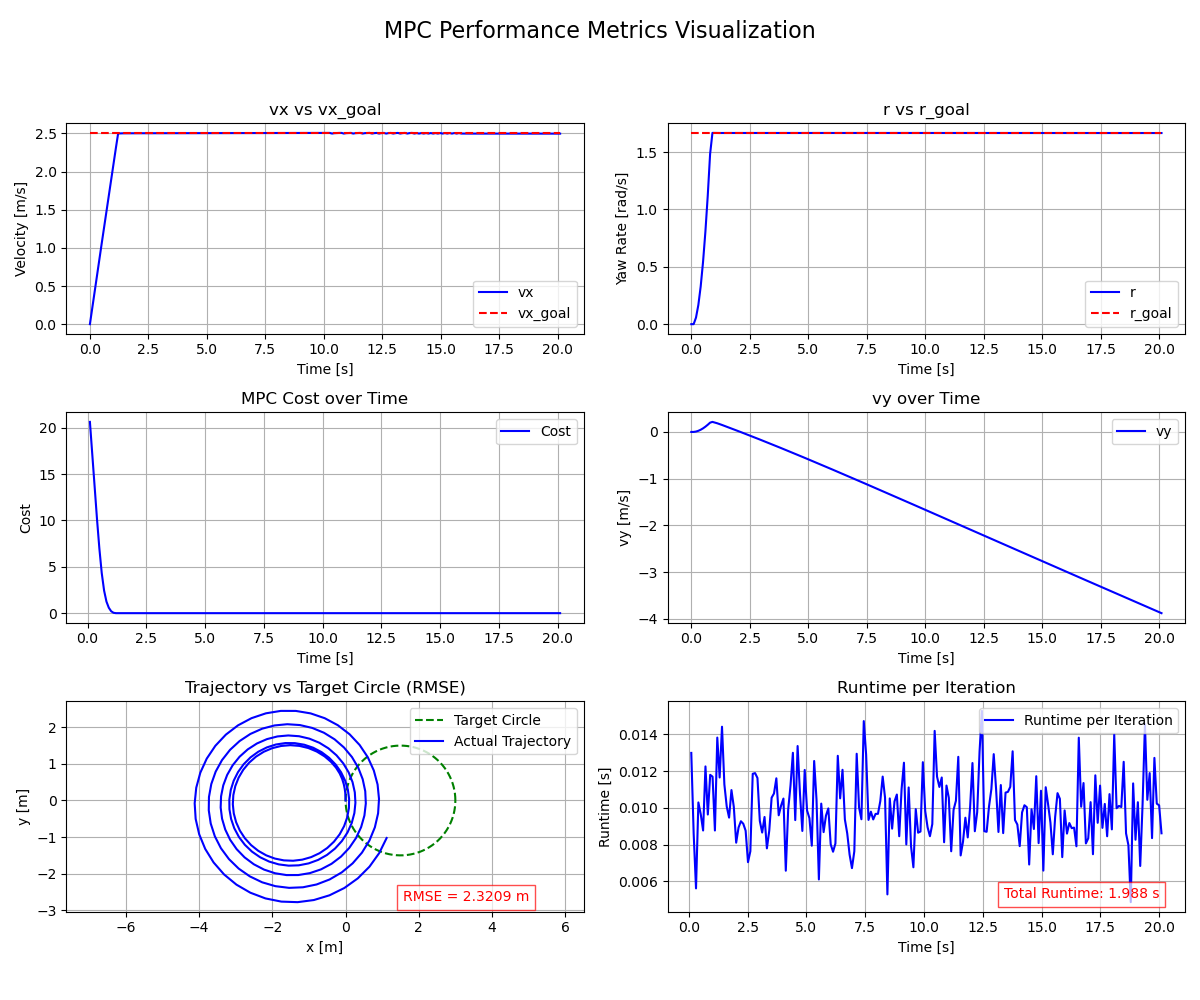
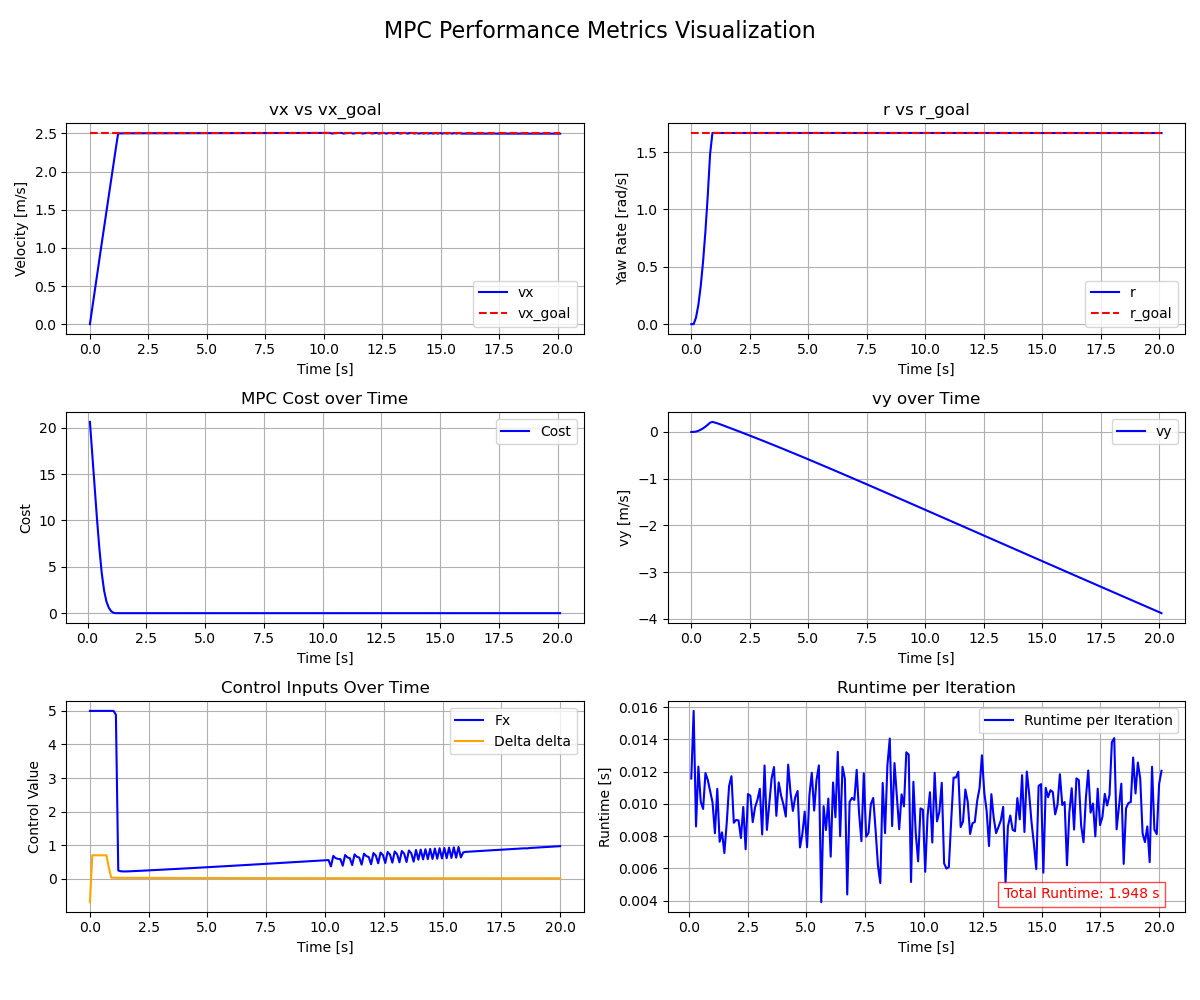
Add control input in subplot

Changed region(s): [[0.0308, 0.682, 0.4933, 0.961], [0.5242, 0.682, 0.9867, 0.899], [0.0, 0.775, 0.0617, 0.837]]

diff --git a/nmpc_controller/scripts/loco_nmpc_offline.py b/nmpc_controller/scripts/loco_nmpc_offline.py
@@ -2,6 +2,8 @@ import numpy as np
 import matplotlib.pyplot as plt
 from scipy.optimize import minimize
 import matplotlib.animation as animation
+from sklearn.metrics import mean_squared_error
+import time 
 
 # Vehicle parameters 
 m = 2.35
@@ -293,7 +295,19 @@ for i in range(0, len(trajectory), 10):  # Plot every 10th step to avoid clutter
     # Plot the yaw direction as arrows
     plt.arrow(x, y, yaw_dx, yaw_dy, head_width=0.2, head_length=0.3, fc='r', ec='r', label='Yaw' if i == 0 else "")
 
-    
+# Compute RMSE for xy trajectory vs target circle
+rmse_xy = np.sqrt(mean_squared_error(targets[:, 0:2], trajectory[:len(targets), 0:2]))
+
+# Add RMSE text on the plot (in axes coordinates)
+plt.text(
+    0.80, 0.05,  # x, y in axes fraction (0 to 1)
+    f'RMSE = {rmse_xy:.4f} m',
+    transform=plt.gca().transAxes,  # Use current Axes for coordinate transform
+    color='red',
+    fontsize=10,
+    bbox=dict(facecolor='white', alpha=0.7, edgecolor='red')
+)
+
 plt.xlabel('X position')
 plt.ylabel('Y position')
 plt.legend()
@@ -372,7 +386,7 @@ def update(frame):
     vx_text.set_text(f'vx: {vx:.2f} m/s')
     vy_text.set_text(f'vy: {vy:.2f} m/s')
     r_text.set_text(f'r: {r:.2f} rad/s')
-    vx_cmd_text.set_text(f'Fx cmd: {current_control[0]:.2f} m/s')
+    vx_cmd_text.set_text(f'vx cmd: {current_control[0]:.2f} m/s')
     delta_text.set_text(f'delta: {current_control[1]:.2f} rad')
     alpha_f_text.set_text(f'α_f: {alpha_f:.2f} rad')
     alpha_r_text.set_text(f'α_r: {alpha_r:.2f} rad')
@@ -405,8 +419,6 @@ plt.tight_layout()
 plt.show()
 
 # ========================== Additional Metrics Plot ==========================
-from sklearn.metrics import mean_squared_error
-import time 
 
 sim_time = np.linspace(0, len(trajectory) * 0.1, len(trajectory))  # Time vector for plotting
 
@@ -417,9 +429,6 @@ r_list = trajectory[:, 5]
 vx_goal_list, r_goal_list = zip(*[circle_velocity_target(circle_radius, 2.5) for _ in vx_list])
 vx_goal_list = np.array(vx_goal_list)
 r_goal_list = np.array(r_goal_list)
-
-# Compute RMSE for xy trajectory vs target circle
-rmse_xy = np.sqrt(mean_squared_error(targets[:, 0:2], trajectory[:len(targets), 0:2]))
 
 # Dummy runtime list (real-time per iteration not tracked, but you could add timing logic in the loop)
 # For demo, assume each MPC iteration takes 0.01s ± small noise
@@ -466,24 +475,14 @@ axs[1, 1].set_ylabel('vy [m/s]')
 axs[1, 1].legend()
 axs[1, 1].grid()
 
-# Plot actual vs target trajectory for RMSE illustration
-axs[2, 0].plot(target_x, target_y, 'g--', label='Target Circle')
-axs[2, 0].plot(trajectory[:len(targets), 0], trajectory[:len(targets), 1], 'b-', label='Actual Trajectory')
-axs[2, 0].set_title('Trajectory vs Target Circle (RMSE)')
-axs[2, 0].set_xlabel('x [m]')
-axs[2, 0].set_ylabel('y [m]')
-axs[2, 0].legend(loc='upper right')  # Move legend to upper right
-axs[2, 0].grid()
-axs[2, 0].axis('equal')  # Equal scaling for x and y axes
-
-# Add RMSE text at bottom-left in axes coordinates to avoid overlap
-axs[2, 0].text(
-    0.65, 0.05,
-    f'RMSE = {rmse_xy:.4f} m',
-    transform=axs[2, 0].transAxes,
-    color='red', fontsize=10,
-    bbox=dict(facecolor='white', alpha=0.7, edgecolor='red')
-)
+# Plot Control Input
+axs[2, 0].plot(sim_time[:-1], controls[:, 0], label='vx_cmd (m/s)', color='blue')
+axs[2, 0].plot(sim_time[:-1], controls[:, 1], label='delta (rad)', color='orange')
+axs[2, 0].set_title('Control Inputs Over Time')
+axs[2, 0].set_xlabel('Time [s]')
+axs[2, 0].set_ylabel('Control Value')
+axs[2, 0].legend()
+axs[2, 0].grid(True)
 
 # Plot runtime per iteration
 axs[2, 1].plot(time_cost, runtime_list, color='blue', label='Runtime per Iteration')

diff --git a/nmpc_controller/scripts/fuse_nmpc_offline.py b/nmpc_controller/scripts/fuse_nmpc_offline.py
@@ -1,6 +1,9 @@
 import numpy as np
 import matplotlib.pyplot as plt
 from scipy.optimize import minimize
+import matplotlib.animation as animation
+from sklearn.metrics import mean_squared_error
+import time 
 
 # Constants
 m = 2.35 # 4.78  # Mass of the vehicle (kg)
@@ -253,7 +256,19 @@ for i in range(0, len(trajectory), 10):  # Plot every 10th step to avoid clutter
     # Plot the yaw direction as arrows
     plt.arrow(x, y, yaw_dx, yaw_dy, head_width=0.2, head_length=0.3, fc='r', ec='r', label='Yaw' if i == 0 else "")
 
-    
+# Compute RMSE for xy trajectory vs target circle
+rmse_xy = np.sqrt(mean_squared_error(targets[:, 0:2], trajectory[:len(targets), 0:2]))
+
+# Add RMSE text on the plot (in axes coordinates)
+plt.text(
+    0.80, 0.05,  # x, y in axes fraction (0 to 1)
+    f'RMSE = {rmse_xy:.4f} m',
+    transform=plt.gca().transAxes,  # Use current Axes for coordinate transform
+    color='red',
+    fontsize=10,
+    bbox=dict(facecolor='white', alpha=0.7, edgecolor='red')
+)
+
 plt.xlabel('X position')
 plt.ylabel('Y position')
 plt.legend()
@@ -277,8 +292,6 @@ plt.show()
 # plt.show()
 
 ########################### Visualize in animation ##########################################
-
-import matplotlib.animation as animation
 
 # Setup for animation
 fig, ax = plt.subplots(figsize=(10, 8))  # Slightly larger figure for better text display
@@ -378,8 +391,7 @@ plt.show()
 
 
 # ========================== Additional Metrics Plot ==========================
-from sklearn.metrics import mean_squared_error
-import time 
+
 
 sim_time = np.linspace(0, len(trajectory) * 0.1, len(trajectory))  # Time vector for plotting
 
@@ -390,9 +402,6 @@ r_list = trajectory[:, 5]
 vx_goal_list, r_goal_list = zip(*[circle_velocity_target(circle_radius, 2.5) for _ in vx_list])
 vx_goal_list = np.array(vx_goal_list)
 r_goal_list = np.array(r_goal_list)
-
-# Compute RMSE for xy trajectory vs target circle
-rmse_xy = np.sqrt(mean_squared_error(targets[:, 0:2], trajectory[:len(targets), 0:2]))
 
 # Dummy runtime list (real-time per iteration not tracked, but you could add timing logic in the loop)
 # For demo, assume each MPC iteration takes 0.01s ± small noise
@@ -439,24 +448,14 @@ axs[1, 1].set_ylabel('vy [m/s]')
 axs[1, 1].legend()
 axs[1, 1].grid()
 
-# Plot actual vs target trajectory for RMSE illustration
-axs[2, 0].plot(target_x, target_y, 'g--', label='Target Circle')
-axs[2, 0].plot(trajectory[:len(targets), 0], trajectory[:len(targets), 1], 'b-', label='Actual Trajectory')
-axs[2, 0].set_title('Trajectory vs Target Circle (RMSE)')
-axs[2, 0].set_xlabel('x [m]')
-axs[2, 0].set_ylabel('y [m]')
-axs[2, 0].legend(loc='upper right')  # Move legend to upper right
-axs[2, 0].grid()
-axs[2, 0].axis('equal')  # Equal scaling for x and y axes
-
-# Add RMSE text at bottom-left in axes coordinates to avoid overlap
-axs[2, 0].text(
-    0.65, 0.05,
-    f'RMSE = {rmse_xy:.4f} m',
-    transform=axs[2, 0].transAxes,
-    color='red', fontsize=10,
-    bbox=dict(facecolor='white', alpha=0.7, edgecolor='red')
-)
+# Plot Control Input
+axs[2, 0].plot(sim_time[:-1], controls[:, 0], label='Fx', color='blue')
+axs[2, 0].plot(sim_time[:-1], controls[:, 1], label='Delta delta', color='orange')
+axs[2, 0].set_title('Control Inputs Over Time')
+axs[2, 0].set_xlabel('Time [s]')
+axs[2, 0].set_ylabel('Control Value')
+axs[2, 0].legend()
+axs[2, 0].grid(True)
 
 # Plot runtime per iteration
 axs[2, 1].plot(time_cost, runtime_list, color='blue', label='Runtime per Iteration')
